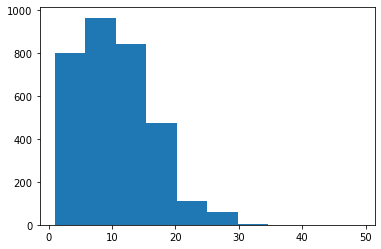
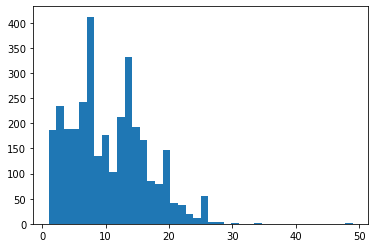
Semana N°4

diff --git a/4. Aleatoridad/4.5 Gráficos del Arbolado porteño/arboles.py b/4. Aleatoridad/4.5 Gráficos del Arbolado porteño/arboles.py
@@ -1,10 +1,66 @@
 # -*- coding: utf-8 -*-
 """
-Created on Sun Aug 23 11:28:39 2020
+Created on Tue Sep  1 14:15:04 2020
 
 @author: Claudio Collado
 
 """
+#%%
+#Ejercicio 4.30
+
+import csv
+import matplotlib.pyplot as plt
+
+def leer_arboles(nombre_archivo):
+    arboleda = []
+    f = open(nombre_archivo,'r',encoding = 'utf8')
+    filas = csv.reader(f)
+    encabezado = next(filas)
+    for fila in filas:
+        diccionario_arbol = dict(zip(encabezado,fila))
+        arboleda.append(diccionario_arbol)
+    return arboleda
+    
+arboleda = leer_arboles('arbolado-en-espacios-verdes.csv')
+
+altos = [float(arbol['altura_tot']) for arbol in arboleda if arbol['nombre_com'] == 'Jacarandá']
+print(len(altos))
+plt.hist(altos,bins='auto')
+
+
+#%%
+#Ejercicio 4.31
+
+import csv
+import numpy as np
+import matplotlib.pyplot as plt
+
+def leer_arboles(nombre_archivo):
+    arboleda = []
+    f = open(nombre_archivo,'r',encoding = 'utf8')
+    filas = csv.reader(f)
+    encabezado = next(filas)
+    for fila in filas:
+        diccionario_arbol = dict(zip(encabezado,fila))
+        arboleda.append(diccionario_arbol)
+    return arboleda
+    
+arboleda = leer_arboles('arbolado-en-espacios-verdes.csv')
+
+H = [(float(arbol['altura_tot']),float(arbol['diametro'])) for arbol in arboleda if arbol['nombre_com'] == 'Jacarandá']
+
+vector = np.array(H)
+
+altura = vector[:,0]
+diametro = vector[:,1]
+
+
+plt.scatter(diametro,altura,alpha=0.2)
+plt.xlabel('diametro (cm)')
+plt.ylabel('alto (m)')
+plt.title('Relacion diametro-alto para Jacarandás')
+
+
 #%%
 #Ejercicio 4.32
 
@@ -36,7 +92,7 @@ def medidas_de_especies(especies,arboleda):
 diccionario = medidas_de_especies(especies,arboleda)
 
 #%%
-#Eucalipto
+#Ejercicio 4.32 - Eucalipto
 
 especie = 'Eucalipto'
 datos = diccionario[especie]
@@ -50,7 +106,7 @@ plt.ylabel('Alto (m)')
 plt.legend()
          
 #%%
-#Palo borracho rosado
+#Ejercicio 4.32 - Palo borracho rosado
 
 especie = 'Palo borracho rosado'
 datos = diccionario[especie]
@@ -65,7 +121,7 @@ plt.legend()
          
 
 #%%
-#Palo borracho rosado
+#Ejercicio 4.32 - Jacarandá
 
 especie = 'Jacarandá'
 datos = diccionario[especie]
@@ -79,7 +135,7 @@ plt.ylabel('Alto (m)')
 plt.legend()
 
 #%%
-#Extra 2 especies - Eucalipto y Palo borracho rosado
+#Ejercicio 4.32 - Extra 2 especies - Eucalipto y Palo borracho rosado
 
 #Eucalipto
 
@@ -105,7 +161,7 @@ plt.ylabel('Alto (m)')
 plt.legend()
 
 #%%
-#Extra 2 especies - Eucalipto y Jacarandá
+#Ejercicio 4.32 - Extra 2 especies - Eucalipto y Jacarandá
 
 #Eucalipto
 
@@ -131,7 +187,7 @@ plt.ylabel('Alto (m)')
 plt.legend()
 
 #%%
-#Extra 2 especies - Jacarandá y Palo borracho rosado
+#Ejercicio 4.32 - Extra 2 especies - Jacarandá y Palo borracho rosado
 
 especie_1 = 'Jacarandá'
 datos_1 = diccionario[especie_1]
@@ -155,7 +211,7 @@ plt.ylabel('Alto (m)')
 plt.legend()
 
 #%%
-#Extra - 3 especies
+#Ejercicio 4.32 - Extra - 3 especies
 
 #Eucalipto
 
@@ -188,11 +244,4 @@ plt.title('Relacion diametro-altura para las 3 especies')
 plt.xlabel('Diametro (cm)')
 plt.ylabel('Alto (m)')         
 plt.legend()
-
-
-
-
-
-
-
 

diff --git a/4. Aleatoridad/4.5 Gráficos del Arbolado porteño/ejercicio_4.30.py b/4. Aleatoridad/4.5 Gráficos del Arbolado porteño/ejercicio_4.30.py
@@ -12,19 +12,19 @@ import matplotlib.pyplot as plt
 
 def leer_arboles(nombre_archivo):
     arboleda = []
-    with open(nombre_archivo,'r',encoding = 'utf8') as f:
-        filas = csv.reader(f)
-        encabezado = next(filas)
-        for fila in filas:
-            diccionario_arbol = dict(zip(encabezado,fila))
-            arboleda.append(diccionario_arbol)
-        return arboleda
+    f = open(nombre_archivo,'r',encoding = 'utf8')
+    filas = csv.reader(f)
+    encabezado = next(filas)
+    for fila in filas:
+        diccionario_arbol = dict(zip(encabezado,fila))
+        arboleda.append(diccionario_arbol)
+    return arboleda
     
 arboleda = leer_arboles('arbolado-en-espacios-verdes.csv')
 
 altos = [float(arbol['altura_tot']) for arbol in arboleda if arbol['nombre_com'] == 'Jacarandá']
 
-plt.hist(altos,bins=10)
+plt.hist(altos,bins='auto')
 
 
 

diff --git a/4. Aleatoridad/4.5 Gráficos del Arbolado porteño/ejercicio_4.31.py b/4. Aleatoridad/4.5 Gráficos del Arbolado porteño/ejercicio_4.31.py
@@ -13,13 +13,13 @@ import matplotlib.pyplot as plt
 
 def leer_arboles(nombre_archivo):
     arboleda = []
-    with open(nombre_archivo,'r',encoding = 'utf8') as f:
-        filas = csv.reader(f)
-        encabezado = next(filas)
-        for fila in filas:
-            diccionario_arbol = dict(zip(encabezado,fila))
-            arboleda.append(diccionario_arbol)
-        return arboleda
+    f = open(nombre_archivo,'r',encoding = 'utf8')
+    filas = csv.reader(f)
+    encabezado = next(filas)
+    for fila in filas:
+        diccionario_arbol = dict(zip(encabezado,fila))
+        arboleda.append(diccionario_arbol)
+    return arboleda
     
 arboleda = leer_arboles('arbolado-en-espacios-verdes.csv')
 
